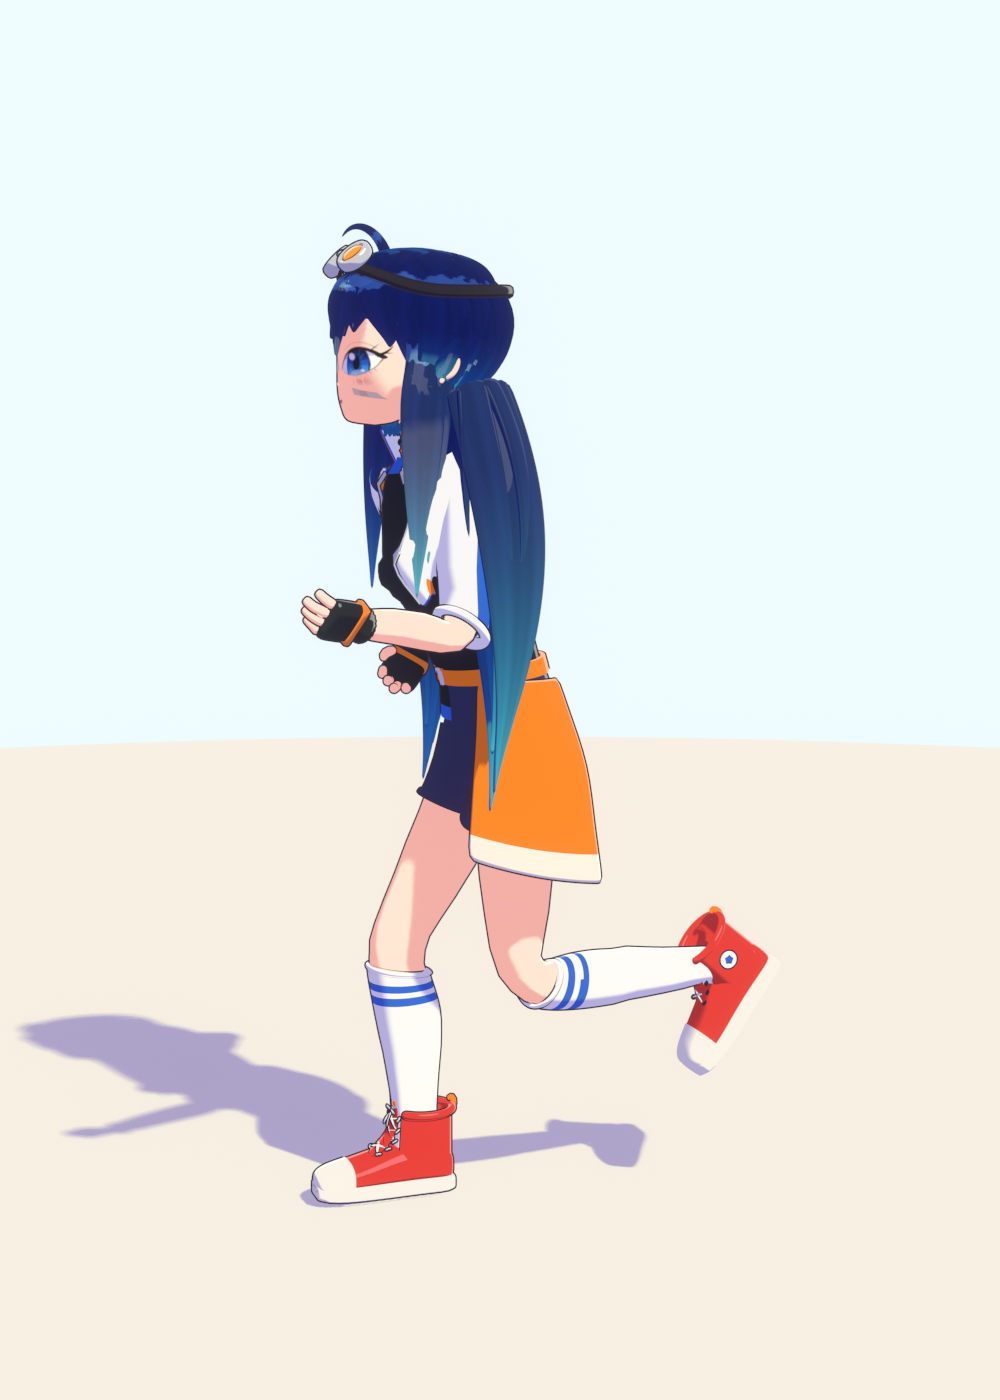
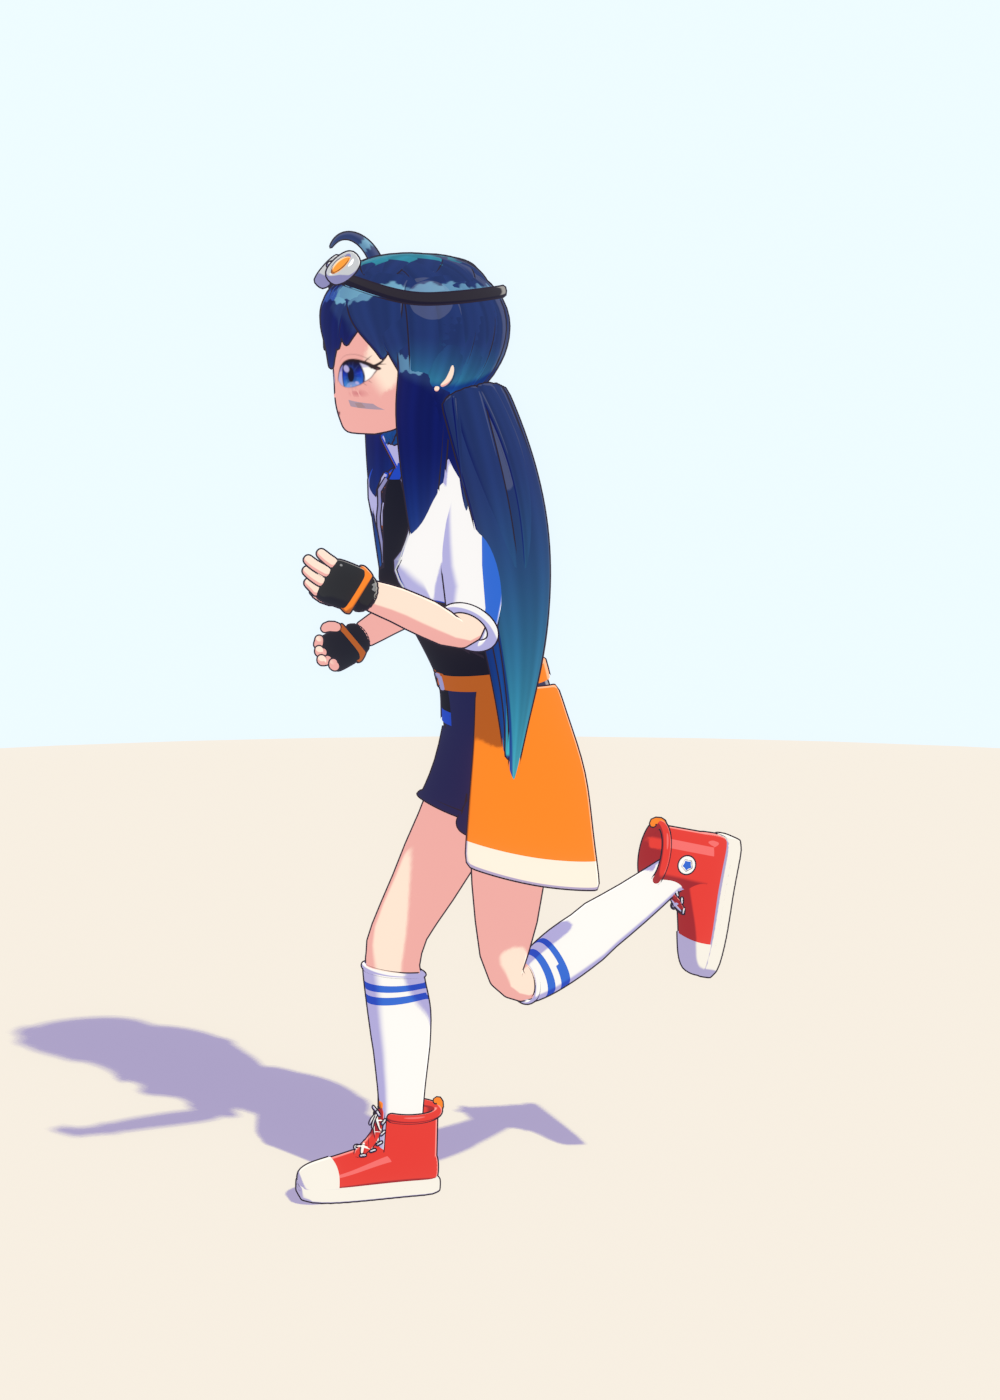
Pongo: her own run cycle (lean, high knees, compact arm pump, hip roll) and relaxed idle
Claude-Session: https://claude.ai/code/session_01EYpF4cduPNxQ6Ws8Cp9mAz

diff --git a/blender/assets/pongo_g.py b/blender/assets/pongo_g.py
@@ -1352,7 +1352,7 @@ def design_pongo_g_sheet():
     for o in objs:
         if o.type == 'MESH' and "face" not in o.name:
             E.add_outline(o, 0.0022)
-    CH.make_clips(arm)
+    girl_clips(arm)
     sc = bpy.context.scene
     arm.animation_data.action = bpy.data.actions["idle"]
     sc.frame_set(10)
@@ -1369,9 +1369,67 @@ def export_pongo_g():
     GAME = True
     E.reset()
     B, arm, objs = build_pongo_g()
-    clips = CH.make_clips(arm)
+    clips = girl_clips(arm)
     body = E.join(objs, "pongo")
     E.export_erm(body, "pongo", arm=arm, clips=clips)
     dec = body.modifiers.new("dec", 'DECIMATE')
     dec.ratio = 0.4
     E.export_erm(body, "pongo@1", arm=arm, clips=clips)
+
+
+# ============================================================================ her own animation
+
+def _replace_action(arm, name):
+    old = bpy.data.actions.get(name)
+    if old:
+        bpy.data.actions.remove(old)
+    E.new_action(arm, name)
+
+
+def girl_clips(arm):
+    """Shared gameplay clips, with Pongo's own run and idle on top."""
+    clips = CH.make_clips(arm)
+    Z = CH.all_bones_zero(arm)
+    # ---- run: 20 frames, forward lean, high knees, compact arm pump, hip roll, light bounce
+    _replace_action(arm, "run")
+    legR = {0: (52, -12, 8), 5: (10, -28, -6), 10: (-38, -22, 28), 14: (4, -130, 40), 17: (62, -95, 5), 20: (52, -12, 8)}
+
+    def leg_at(f):
+        keys = sorted(legR)
+        f = f % 20
+        for i in range(len(keys) - 1):
+            a, b = keys[i], keys[i + 1]
+            if a <= f <= b:
+                t = (f - a) / (b - a)
+                t = t * t * (3 - 2 * t)
+                return tuple(legR[a][j] + (legR[b][j] - legR[a][j]) * t for j in range(3))
+        return legR[0]
+    for f in range(0, 21):
+        th, sh, ft = leg_at(f)
+        th2, sh2, ft2 = leg_at(f + 10)
+        ph = 2 * math.pi * f / 20
+        sw = math.sin(ph)
+        bob = 0.034 * math.cos(2 * ph) - 0.016
+        p = CH._merge(Z, {
+            "root": (0, 3 * math.cos(2 * ph), -9 * sw), "spine": (-14, 0, 7 * sw), "chest": (-4, 0, 10 * sw),
+            "neck": (6, 0, -8 * sw), "head": (8, 0, -9 * sw),
+            "thigh.R": (th, 0, 0), "shin.R": (sh, 0, 0), "foot.R": (ft, 0, 0),
+            "thigh.L": (th2, 0, 0), "shin.L": (sh2, 0, 0), "foot.L": (ft2, 0, 0),
+            "clav.R": (0, 0, 5 * sw), "clav.L": (0, 0, 5 * sw),
+            "upper_arm.R": (-44 * sw + 4, 16, 6), "forearm.R": (100 + 18 * sw, 0, 14), "hand.R": (0, 0, -12),
+            "upper_arm.L": (44 * sw + 4, -16, -6), "forearm.L": (100 - 18 * sw, 0, -14), "hand.L": (0, 0, 12)})
+        CH.pose_key(arm, f + 1, p, (0, 0, bob))
+    # ---- idle: weight on her left leg, head tilt, left hand drifting behind, gentle breathing sway
+    _replace_action(arm, "idle")
+    for f, br in ((1, 0.0), (19, 1.0), (37, 0.0), (55, -0.6), (73, 0.0)):
+        p = CH._merge(Z, {
+            "root": (0, 4, -6), "spine": (-2 - 1.5 * br, -5, 4), "chest": (1.5 * br, 2, -5), "neck": (2, 4, 4),
+            "head": (-4 - br, 6, 8 + 2 * br),
+            "clav.R": (0, 0, 2 * br), "clav.L": (0, 0, -1.5 * br),
+            "upper_arm.R": (-3, 13 + 2 * br, 0), "forearm.R": (18, 0, 0), "hand.R": (0, 0, -8),
+            "upper_arm.L": (14, -11 - 2 * br, 0), "forearm.L": (30, 0, 0), "hand.L": (0, 0, 10),
+            "thigh.L": (2, 0, 2), "shin.L": (-2, 0, 0),
+            "thigh.R": (8, 0, -9), "shin.R": (-16, 0, 0), "foot.R": (6, 0, 6)})
+        CH.pose_key(arm, f, p, (0.012 + 0.004 * br, 0, -0.01 + 0.004 * br))
+    arm.animation_data.action = bpy.data.actions["idle"]
+    return clips
